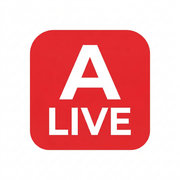
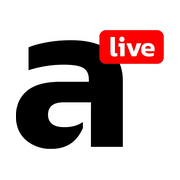
Použít značku ARCHIMEDES Live jako ikonu PWA (#189)
Nahrazuje dosavadní ikony značkou a live a přidává maskable variantu pro Android.

diff --git a/tests/portal/pwa-contract.test.js b/tests/portal/pwa-contract.test.js
@@ -13,9 +13,29 @@ describe("PWA contract", () => {
     expect(manifest.short_name).toBe("ARCHIMEDES Live");
     expect(manifest.start_url).toBe("/portal/novinky");
     expect(manifest.display).toBe("standalone");
-    expect(manifest.icons.map((icon) => icon.sizes)).toEqual(["192x192", "512x512"]);
+    expect(manifest.icons).toEqual([
+      {
+        src: "/pwa-icon-192.png",
+        sizes: "192x192",
+        type: "image/png",
+        purpose: "any",
+      },
+      {
+        src: "/pwa-icon-512.png",
+        sizes: "512x512",
+        type: "image/png",
+        purpose: "any",
+      },
+      {
+        src: "/pwa-icon-maskable-512.png",
+        sizes: "512x512",
+        type: "image/png",
+        purpose: "maskable",
+      },
+    ]);
     expect(fs.existsSync(path.join(process.cwd(), "public/pwa-icon-192.png"))).toBe(true);
     expect(fs.existsSync(path.join(process.cwd(), "public/pwa-icon-512.png"))).toBe(true);
+    expect(fs.existsSync(path.join(process.cwd(), "public/pwa-icon-maskable-512.png"))).toBe(true);
   });
 
   it("corrects a standalone launch restored at the portal dashboard", () => {
